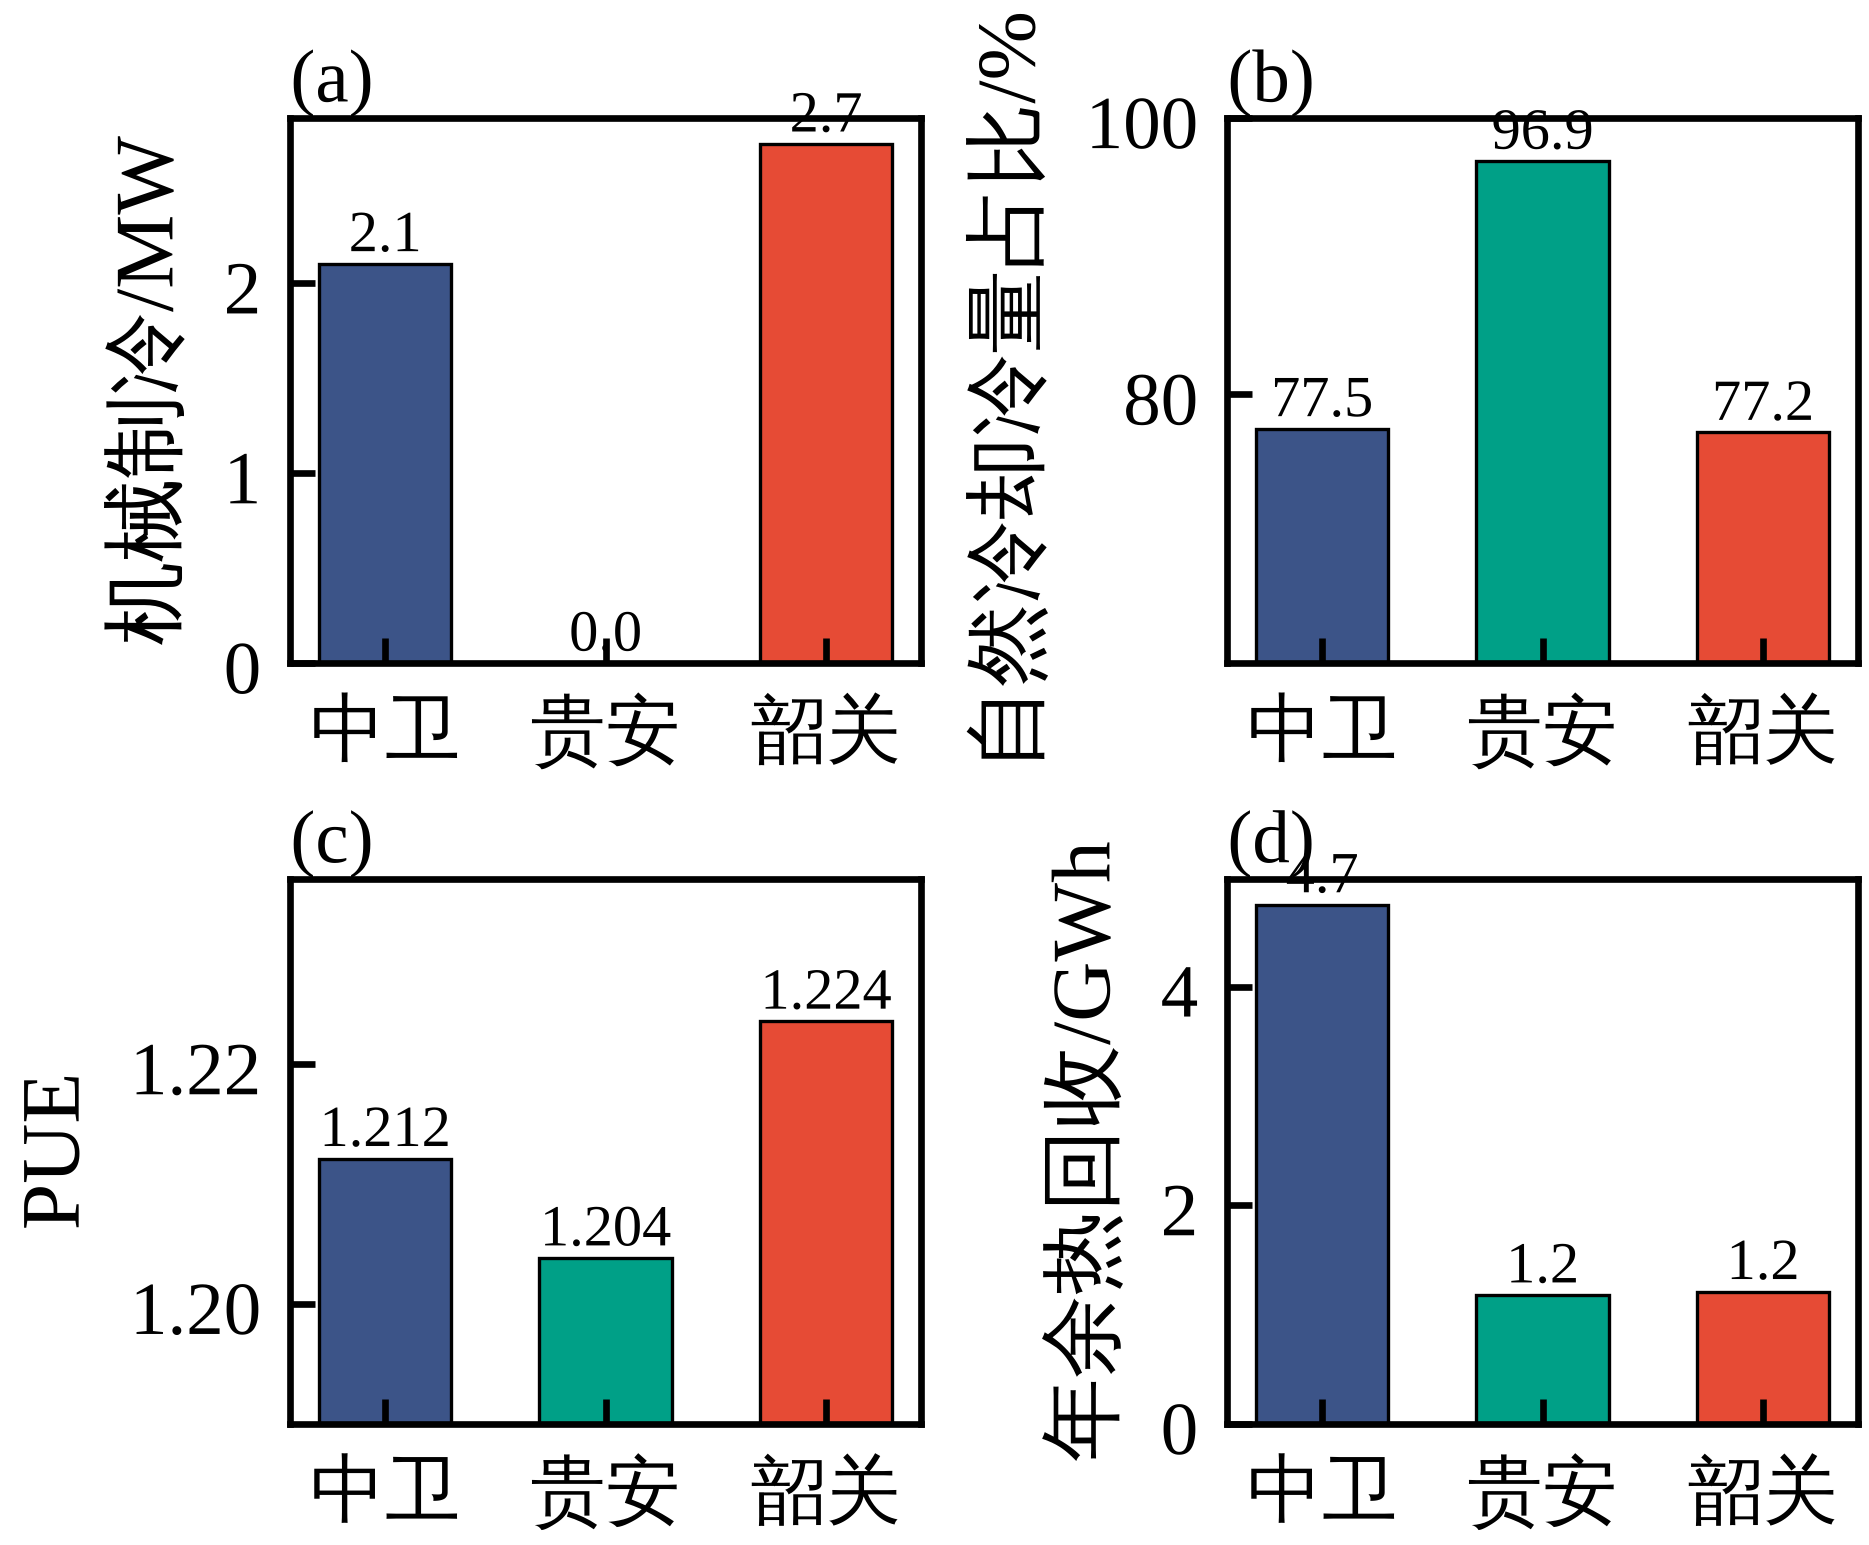
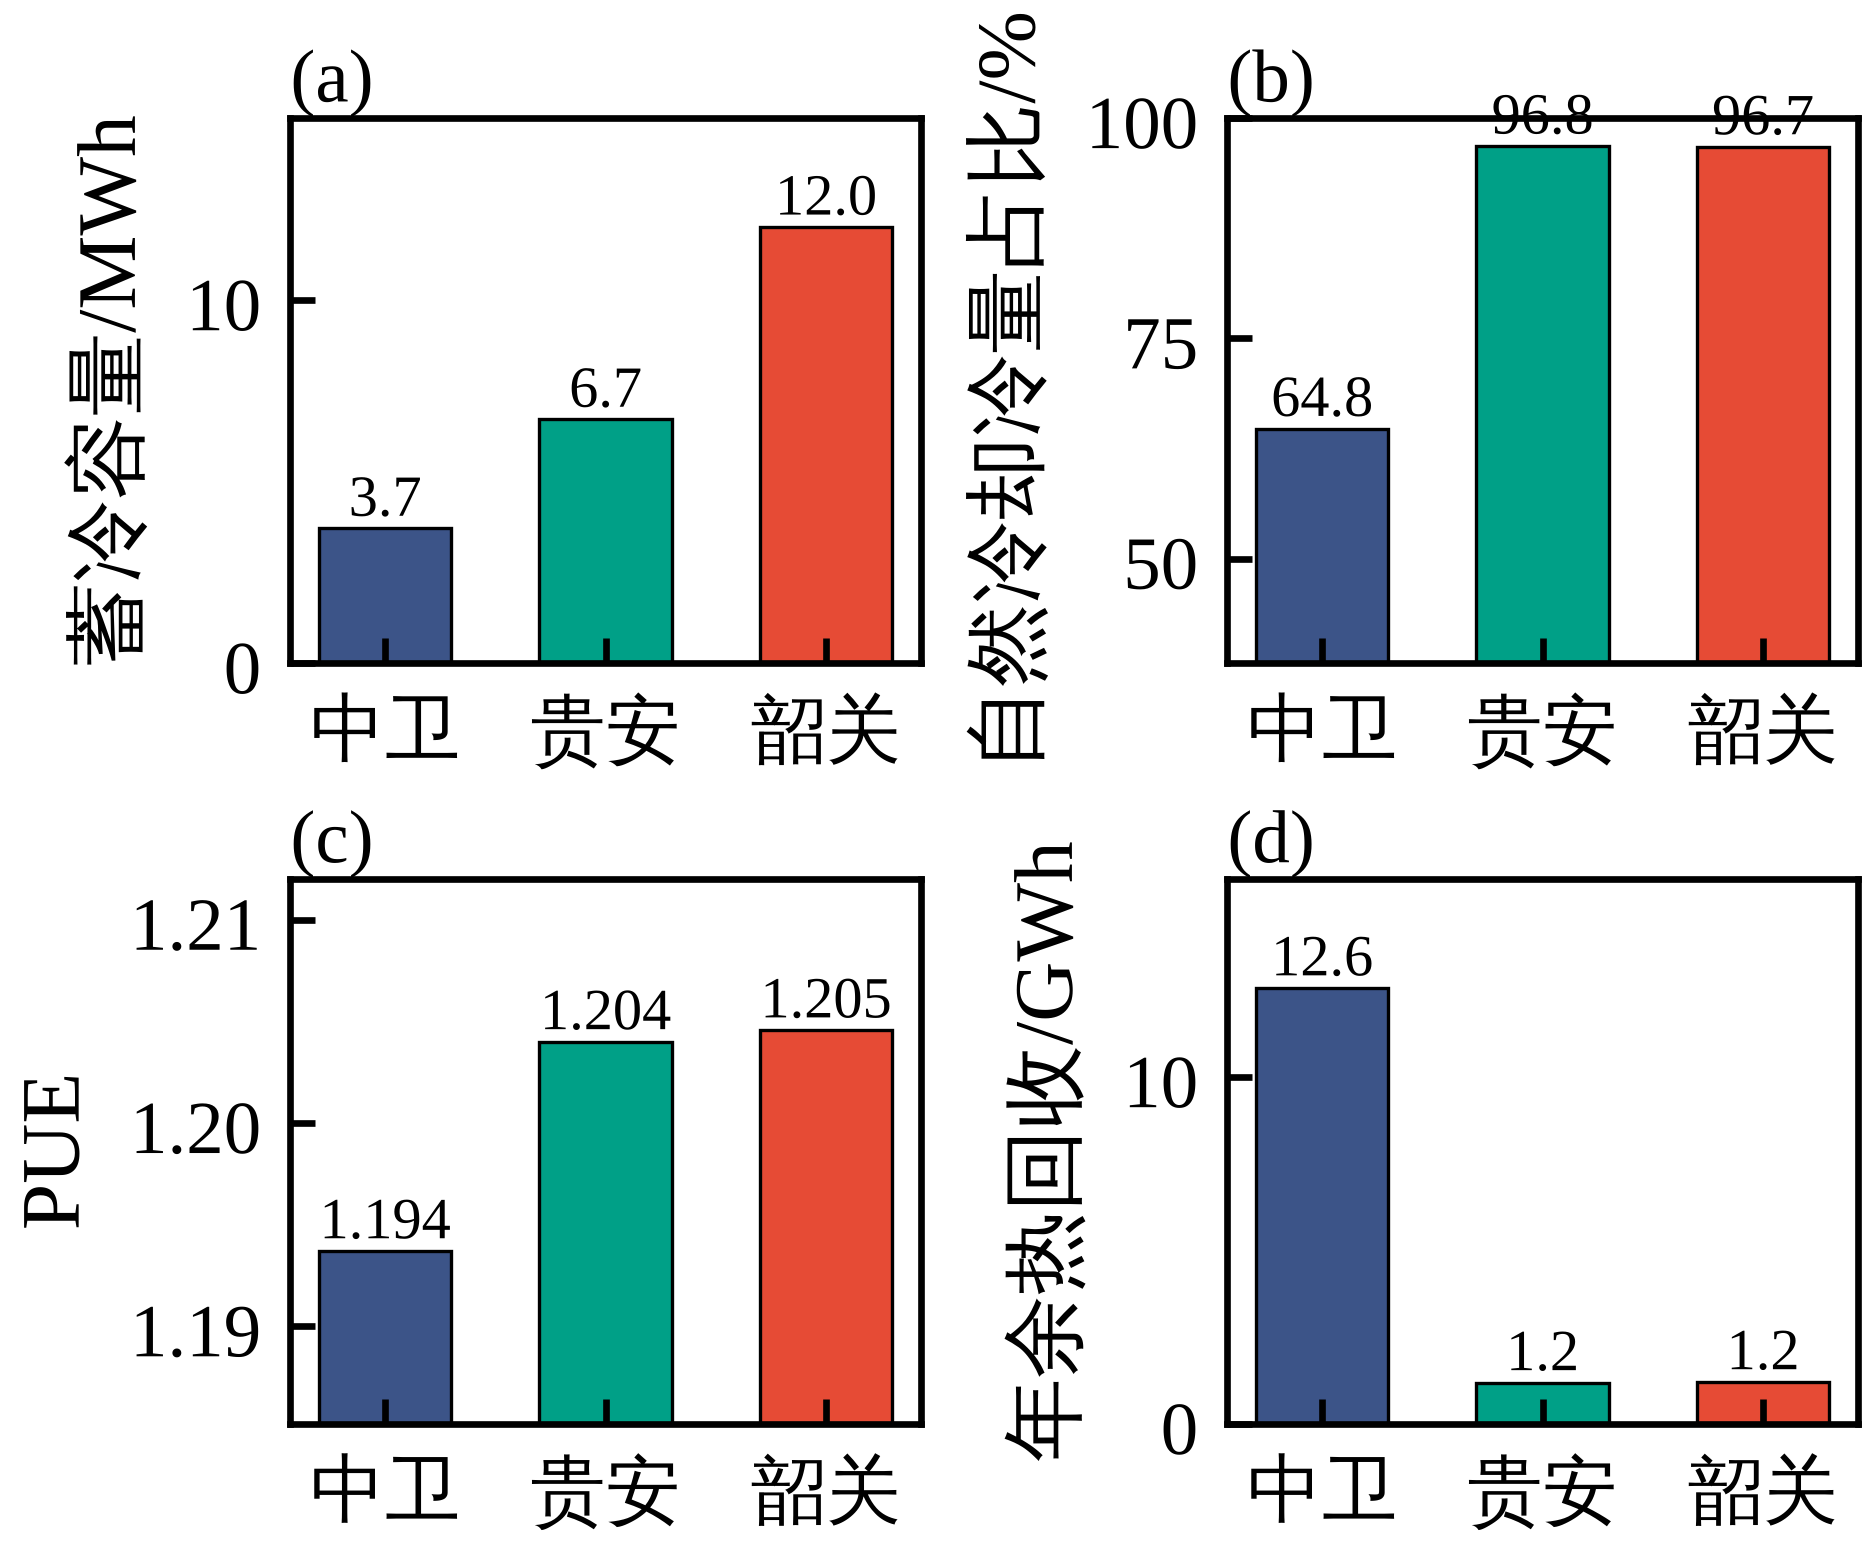
全部结果图终版；图18改为蓄冷容量对比
Claude-Session: https://claude.ai/code/session_01TAApdR6hLaGsBrJbJ5bzRE

diff --git a/v3/code/plot_v4.py b/v3/code/plot_v4.py
@@ -322,14 +322,15 @@ def fig_climate():
     for s, nm in (("zhongwei", "中卫"), ("guian", "贵安"), ("shaoguan", "韶关")):
         if not os.path.exists(f"{RES}/{s}_DRO_S5.pkl"): continue
         e = AN.table_e(s, tags={"S5": "DRO_S5"}).iloc[0]
-        rows.append(dict(站点=nm, 机械制冷=e["K_MC/MW"], 自然冷却冷量占比=e["自然冷却冷量占比/%"], PUE=e["名义PUE"], 余热=e["余热回收/MWh"] / 1e3,
+        rows.append(dict(站点=nm, 机械制冷=e["K_MC/MW"], 蓄冷=e["E_TES/MWh"], 自然冷却冷量占比=e["自然冷却冷量占比/%"], PUE=e["名义PUE"], 余热=e["余热回收/MWh"] / 1e3,
                          能源侧=e["能源侧年化成本/万元"]))
     if len(rows) < 3: return
     T = pd.DataFrame(rows)
     fig, axs = plt.subplots(2, 2, figsize=(W, 7.0 * CM)); cs = ["#3C5488", "#00A087", "#E64B35"]
-    for ax, (k, yl), tag in zip(axs.ravel(), [("机械制冷", "机械制冷/MW"), ("自然冷却冷量占比", "自然冷却冷量占比/%"), ("PUE", "PUE"), ("余热", "年余热回收/GWh")], "abcd"):
+    for ax, (k, yl), tag in zip(axs.ravel(), [("蓄冷", "蓄冷容量/MWh"), ("自然冷却冷量占比", "自然冷却冷量占比/%"), ("PUE", "PUE"), ("余热", "年余热回收/GWh")], "abcd"):
         ax.bar(range(3), T[k], 0.6, color=cs, edgecolor="black", linewidth=0.4); ax.set_xticks(range(3)); ax.set_xticklabels(T["站点"])
         ax.set_ylabel(yl); ax.set_title(f"({tag})", fontsize=9, loc="left", pad=2)
+        if k in ("蓄冷", "余热"): ax.set_ylim(0, T[k].max() * 1.25)
         if k == "PUE": lo, hi = T[k].min(), T[k].max(); ax.set_ylim(lo - 0.6 * (hi - lo) - 0.002, hi + 0.5 * (hi - lo) + 0.002)
         if k == "自然冷却冷量占比": lo, hi = T[k].min(), T[k].max(); ax.set_ylim(max(0, lo - 0.8 * (hi - lo) - 1), min(100, hi + 0.5 * (hi - lo) + 1))
         for i, x in enumerate(T[k]): ax.text(i, x, f"{x:.3f}" if k == "PUE" else f"{x:.1f}", ha="center", va="bottom", fontsize=7)
